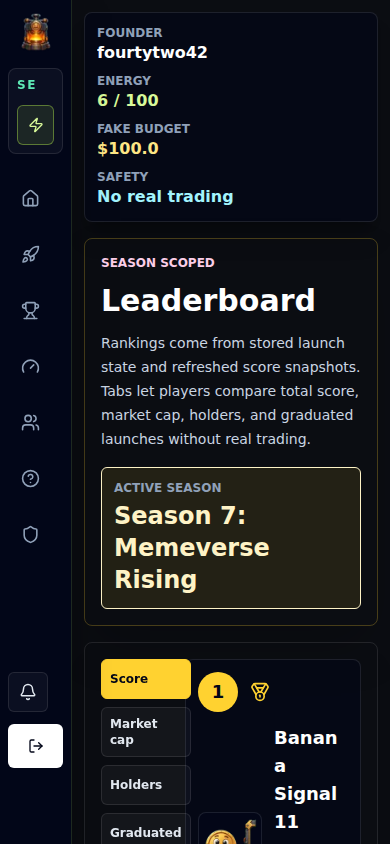
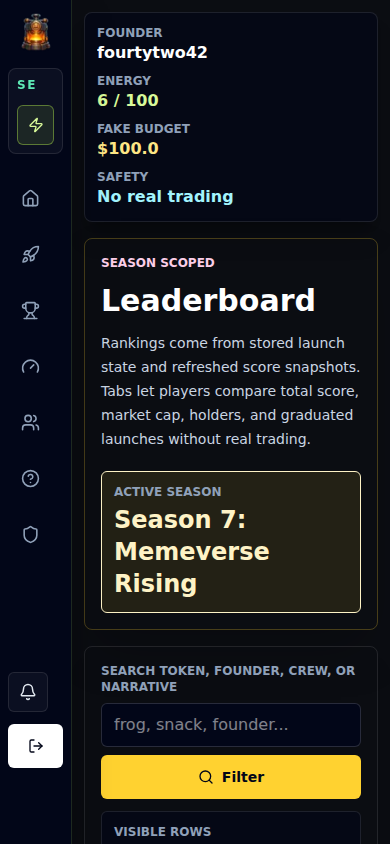
Align leaderboard competition screen

Changed region(s): [[0.2462, 0.7085, 0.9538, 1.0], [0.2769, 0.5545, 0.7077, 0.7085]]

diff --git a/apps/web/src/app/leaderboard/page.tsx b/apps/web/src/app/leaderboard/page.tsx
@@ -1,12 +1,20 @@
 import type { Route } from "next";
 import Image from "next/image";
 import Link from "next/link";
-import { Badge, Kicker, MetricChip, NeonPanel, Panel } from "@meme-foundry/ui";
+import {
+  Badge,
+  Kicker,
+  MetricChip,
+  NeonPanel,
+  Panel,
+  ProgressMeter
+} from "@meme-foundry/ui";
+import { auth } from "@/auth";
 import { AppShell } from "@/components/shell/app-shell";
 import { tokenImage } from "@/lib/assets";
-import { formatCompactCurrency } from "@/lib/game-state";
+import { formatCompactCurrency, graduationProgress } from "@/lib/game-state";
 import { prisma } from "@meme-foundry/db";
-import { Medal, TrendingUp } from "lucide-react";
+import { Medal, Search, Sparkles, TrendingUp } from "lucide-react";
 
 export const dynamic = "force-dynamic";
 
@@ -26,6 +34,11 @@ function readTab(params: Record<string, string | string[] | undefined>) {
   return tabs.some(([id]) => id === raw) ? raw! : "score";
 }
 
+function readSearch(params: Record<string, string | string[] | undefined>) {
+  const raw = Array.isArray(params.q) ? params.q[0] : params.q;
+  return raw?.trim().slice(0, 64) ?? "";
+}
+
 function formatValue(category: string, value: number) {
   if (category === "market") return formatCompactCurrency(value);
   return new Intl.NumberFormat("en-US", { maximumFractionDigits: 0 }).format(
@@ -38,6 +51,8 @@ export default async function LeaderboardPage({
 }: LeaderboardProps) {
   const query = await searchParams;
   const category = readTab(query);
+  const search = readSearch(query);
+  const session = await auth();
   const season = await prisma.season.findFirst({
     where: { status: "active" },
     orderBy: { startsAt: "desc" }
@@ -54,12 +69,52 @@ export default async function LeaderboardPage({
     include: { user: true, crew: true }
   });
   const tokenById = new Map(tokens.map((token) => [token.id, token]));
+  const rows = snapshots
+    .map((snapshot) => {
+      const token = tokenById.get(snapshot.entityId);
+      return token ? { snapshot, token } : null;
+    })
+    .filter((row): row is NonNullable<typeof row> => Boolean(row))
+    .filter(({ token }) => {
+      if (!search) return true;
+      const haystack = [
+        token.name,
+        token.ticker,
+        token.user.username,
+        token.crew?.name,
+        token.narrative,
+        token.status
+      ]
+        .filter(Boolean)
+        .join(" ")
+        .toLowerCase();
+      return haystack.includes(search.toLowerCase());
+    });
+  const myRow =
+    session?.user?.id &&
+    rows.find(({ token }) => token.userId === session.user.id);
+  const nearbyRows = myRow
+    ? rows.filter(
+        ({ snapshot }) =>
+          snapshot.rank &&
+          myRow.snapshot.rank &&
+          Math.abs(snapshot.rank - myRow.snapshot.rank) <= 2
+      )
+    : rows.slice(0, 5);
+  const rewardText =
+    category === "graduated"
+      ? "Graduated launches earn season legacy badges."
+      : category === "holders"
+        ? "Holder rank rewards steady community support."
+        : category === "market"
+          ? "Market rank rewards controlled attention growth."
+          : "Score rank rewards balanced growth, trust, community, and risk control.";
 
   return (
     <AppShell>
       <div className="grid gap-4" data-testid="leaderboard-page">
         <NeonPanel tone="amber">
-          <div className="flex flex-wrap items-center justify-between gap-4">
+          <div className="grid gap-5 lg:grid-cols-[minmax(0,1fr)_18rem] lg:items-center">
             <div>
               <Kicker className="text-amber-200">Season scoped</Kicker>
               <h1 className="mt-3 text-3xl font-black text-white sm:text-4xl">
@@ -80,7 +135,38 @@ export default async function LeaderboardPage({
         </NeonPanel>
 
         <Panel data-testid="leaderboard-tabs">
-          <div className="grid grid-cols-[4.75rem_minmax(0,1fr)] items-start gap-2 sm:grid-cols-[13rem_minmax(0,1fr)] sm:gap-4">
+          <div className="mb-4 grid gap-3 lg:grid-cols-[minmax(0,1fr)_18rem]">
+            <form
+              action="/leaderboard"
+              className="grid gap-2 sm:grid-cols-[minmax(0,1fr)_8rem]"
+              data-testid="leaderboard-search"
+            >
+              <input name="tab" type="hidden" value={category} />
+              <label className="grid gap-2">
+                <span className="text-xs font-black uppercase text-slate-400">
+                  Search token, founder, crew, or narrative
+                </span>
+                <input
+                  className="min-h-11 rounded-md border border-white/15 bg-slate-950 px-3 text-base text-white outline-none focus:border-amber-300"
+                  defaultValue={search}
+                  name="q"
+                  placeholder="frog, snack, founder..."
+                />
+              </label>
+              <button className="mt-auto inline-flex min-h-11 items-center justify-center gap-2 rounded-md bg-amber-300 px-4 py-2 text-sm font-black text-slate-950 hover:bg-amber-200">
+                <Search size={16} /> Filter
+              </button>
+            </form>
+            <div className="rounded-md border border-white/10 bg-slate-950/55 p-3">
+              <p className="text-xs font-black uppercase text-slate-400">
+                Visible rows
+              </p>
+              <p className="mt-1 text-2xl font-black text-white">
+                {rows.length}
+              </p>
+            </div>
+          </div>
+          <div className="grid grid-cols-[4.75rem_minmax(0,1fr)] items-start gap-2 xl:grid-cols-[13rem_minmax(0,1fr)_20rem] xl:gap-4">
             <nav
               aria-label="Leaderboard categories"
               className="sticky top-3 grid gap-2"
@@ -100,12 +186,10 @@ export default async function LeaderboardPage({
               className="grid min-w-0 gap-3"
               data-testid="leaderboard-results"
             >
-              {snapshots.map((snapshot) => {
-                const token = tokenById.get(snapshot.entityId);
-                if (!token) return null;
+              {rows.map(({ snapshot, token }) => {
                 return (
                   <Link
-                    className="grid min-w-0 gap-3 rounded-lg border border-white/10 bg-slate-950/55 p-3 hover:border-amber-300/50 sm:grid-cols-[4rem_minmax(0,1fr)_10rem] sm:items-center sm:p-4"
+                    className="grid min-w-0 gap-3 rounded-lg border border-white/10 bg-slate-950/55 p-3 hover:border-amber-300/50 lg:grid-cols-[4rem_minmax(0,1fr)_12rem] lg:items-center lg:p-4"
                     href={`/token/${token.id}` as Route}
                     key={snapshot.id}
                   >
@@ -143,6 +227,14 @@ export default async function LeaderboardPage({
                           Founder {token.user.username}
                           {token.crew ? ` · Crew ${token.crew.name}` : ""}
                         </p>
+                        <div className="mt-2 flex flex-wrap gap-2 text-xs font-bold text-slate-300">
+                          <span className="rounded-full bg-white/10 px-2 py-1">
+                            {token.narrative}
+                          </span>
+                          <span className="rounded-full bg-white/10 px-2 py-1">
+                            Graduation {graduationProgress(token)}%
+                          </span>
+                        </div>
                       </div>
                     </div>
                     <div className="min-w-0 rounded-md bg-slate-900/80 p-3 text-left sm:text-right">
@@ -156,7 +248,7 @@ export default async function LeaderboardPage({
                   </Link>
                 );
               })}
-              {snapshots.length === 0 ? (
+              {rows.length === 0 ? (
                 <div className="rounded-lg border border-dashed border-white/15 bg-slate-950/45 p-6 text-center">
                   <TrendingUp className="mx-auto text-slate-400" />
                   <h2 className="mt-3 text-xl font-black text-white">
@@ -169,6 +261,65 @@ export default async function LeaderboardPage({
                 </div>
               ) : null}
             </div>
+            <aside className="col-span-2 grid content-start gap-3 xl:col-span-1">
+              <Panel data-testid="leaderboard-player-rank">
+                <h2 className="flex items-center gap-2 font-black text-white">
+                  <Sparkles className="text-amber-300" size={18} /> Your rank
+                </h2>
+                {myRow ? (
+                  <div className="mt-3">
+                    <Badge tone="good">#{myRow.snapshot.rank}</Badge>
+                    <p className="mt-2 font-black text-white">
+                      {myRow.token.name}
+                    </p>
+                    <p className="mt-1 text-sm text-slate-400">
+                      {formatValue(category, myRow.snapshot.score)}
+                    </p>
+                  </div>
+                ) : (
+                  <p className="mt-3 text-sm leading-6 text-slate-400">
+                    Launch or rank a token in this category to see your position
+                    here.
+                  </p>
+                )}
+              </Panel>
+              <Panel data-testid="leaderboard-rivals">
+                <h2 className="font-black text-white">Nearby rivals</h2>
+                <div className="mt-3 grid gap-2">
+                  {nearbyRows.map(({ snapshot, token }) => (
+                    <Link
+                      className="rounded-md border border-white/10 bg-slate-950/55 p-3 hover:border-amber-300/40"
+                      href={`/token/${token.id}` as Route}
+                      key={`near-${snapshot.id}`}
+                    >
+                      <div className="flex items-center justify-between gap-3">
+                        <p className="font-black text-white">
+                          #{snapshot.rank} {token.ticker}
+                        </p>
+                        <Badge tone="warn">live</Badge>
+                      </div>
+                      <p className="mt-1 text-sm text-slate-400">
+                        {formatValue(category, snapshot.score)}
+                      </p>
+                    </Link>
+                  ))}
+                </div>
+              </Panel>
+              <Panel data-testid="leaderboard-live-changes">
+                <h2 className="font-black text-white">Live movement</h2>
+                <p className="mt-2 text-sm leading-6 text-slate-400">
+                  Rank changes refresh when the world state worker updates score
+                  snapshots. Watch for action, support, and crew boosts.
+                </p>
+                <ProgressMeter label="Season pressure" tone="warn" value={72} />
+              </Panel>
+              <Panel data-testid="leaderboard-rewards">
+                <Badge tone="good">Rewards</Badge>
+                <p className="mt-3 text-sm leading-6 text-slate-300">
+                  {rewardText}
+                </p>
+              </Panel>
+            </aside>
           </div>
         </Panel>
       </div>
